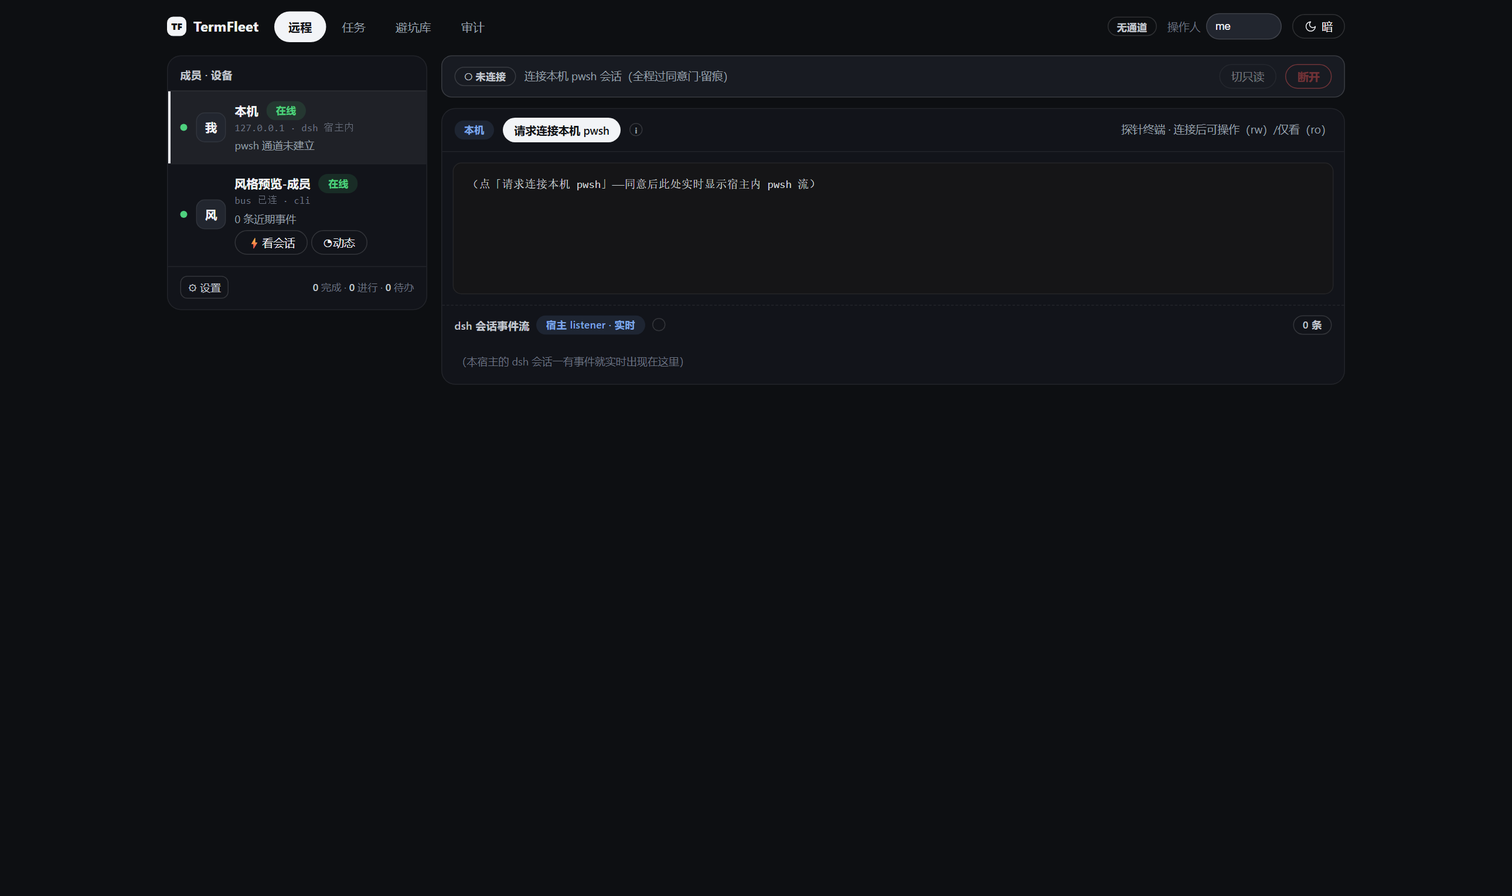
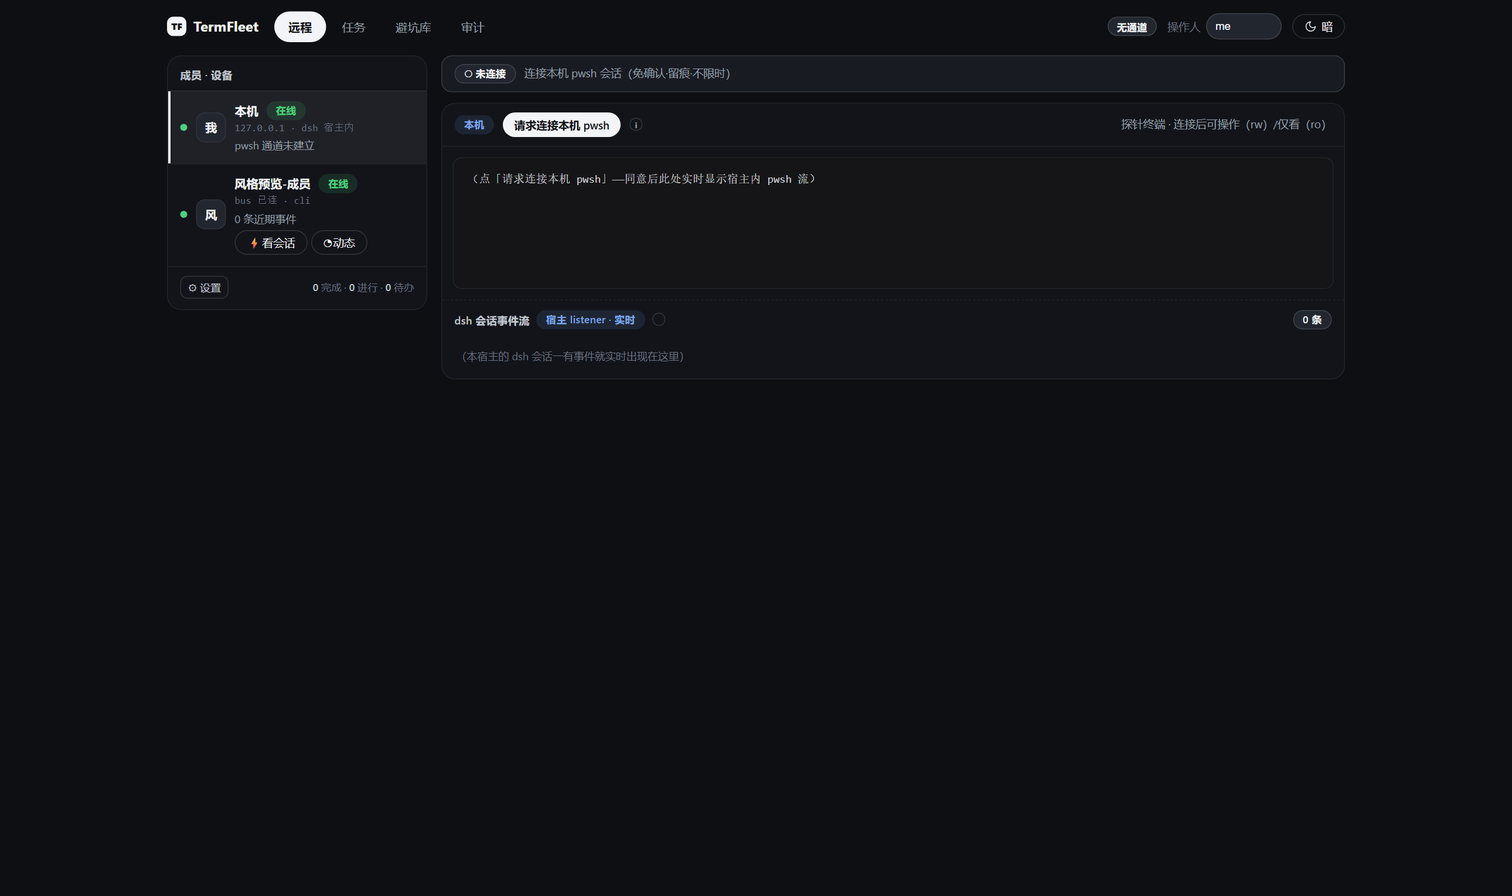
0.1.0 发版准备+全量验收轮(六套件 38 项全绿):界面线全拍逐张挑毛病修 9 处(none 态 CTA 卡 dashed→实线+高度收紧内容居中/chanStrip 无通道时隐藏切只读·断开死按钮/member 态请求会话镜像 CTA 去重(保留顶部单入口,403 文案指上方按钮)/看板卡认领图标 ◻ tofu→ic(User)/toast 白底→暗色壳一体/.btn:disabled 灰化(插话钮禁用态可读)/待分诊等灰 chip 提亮(label1+card2)/IM 按钮组语义(已停用·启用→停用|启用+title)/呼叫 lead 协助按角色显隐(lead 机隐藏);服务端=避

diff --git a/lib/app.html b/lib/app.html
@@ -304,7 +304,7 @@ body{font-family:-apple-system,BlinkMacSystemFont,'Segoe UI','PingFang SC','Hira
 .nav{display:flex;gap:2px;margin-left:6px}
 .nav span{padding:7px 16px;border-radius:999px;font-size:13.5px;color:var(--label3);cursor:pointer;font-weight:500;transition:background var(--dur-fast) var(--ease),color var(--dur-fast) var(--ease)}
 .nav span.on{background:var(--brand);color:var(--brand-fg);font-weight:600}
-.pill{transition:all var(--dur-fast) var(--ease);display:inline-flex;align-items:center;justify-content:center;gap:5px;border-radius:999px;height:22px;padding:0 10px;box-sizing:border-box;font-size:11.5px;font-weight:600;color:var(--label2);border:1px solid var(--border2);white-space:nowrap}
+.pill{transition:all var(--dur-fast) var(--ease);display:inline-flex;align-items:center;justify-content:center;gap:5px;border-radius:999px;height:22px;padding:0 10px;box-sizing:border-box;font-size:11.5px;font-weight:600;color:var(--label1);background:var(--card2);border:1px solid var(--border2);white-space:nowrap}
 .pill.g{color:var(--green);background:var(--green-t);border-color:transparent}
 .pill.a{color:var(--amber);background:var(--amber-t);border-color:transparent}
 .pill.r{color:var(--red);background:var(--red-t);border-color:transparent}
@@ -331,7 +331,8 @@ button:active{opacity:.75}button:disabled{opacity:.4;cursor:not-allowed}
 .note{font-size:12px;color:var(--caption);margin-top:10px}
 .mono{font-family:'SF Mono',Consolas,monospace}
 svg.ic{display:inline-block;vertical-align:-3px}
-.toast{position:fixed;bottom:26px;left:50%;transform:translateX(-50%) translateY(12px);background:var(--brand);color:var(--brand-fg);padding:9px 18px;border-radius:12px;font-size:13px;font-weight:500;z-index:300;opacity:0;transition:all .22s;pointer-events:none;max-width:80vw}
+.toast{position:fixed;bottom:26px;left:50%;transform:translateX(-50%) translateY(12px);background:var(--elev);color:var(--label1);border:1px solid var(--border2);box-shadow:0 8px 30px rgba(0,0,0,.4);padding:9px 18px;border-radius:12px;font-size:13px;font-weight:500;z-index:300;opacity:0;transition:all .22s;pointer-events:none;max-width:80vw}
+.btn:disabled{opacity:.45;cursor:not-allowed}
 .toast.on{opacity:1;transform:translateX(-50%) translateY(0)}
 .mask{position:fixed;inset:0;background:rgba(0,0,0,.5);z-index:200;display:none;transition:opacity var(--dur) var(--ease);opacity:0}
 .mask.on{display:flex;opacity:1}
@@ -385,8 +386,8 @@ body[data-light] .term{background:var(--n1000)}
 .devfoot{display:flex;align-items:center;gap:8px;padding:10px 14px 12px;border-top:1px solid var(--border);margin-top:2px}
 .costline{font-size:11.5px;color:var(--caption);min-width:0;overflow:hidden;text-overflow:ellipsis;white-space:nowrap;flex:1;text-align:right}
 .costline b{color:var(--label2);font-weight:600}
-.ctxnone{display:flex;gap:14px;align-items:stretch;min-height:420px}
-.cta{flex:1;display:flex;flex-direction:column;align-items:center;justify-content:center;gap:10px;padding:34px 22px;border:1.5px dashed var(--border2);border-radius:16px;background:var(--card);cursor:pointer;text-align:center;transition:border-color var(--dur) var(--ease),background var(--dur-fast) var(--ease),transform var(--dur-fast) var(--ease)}
+.ctxnone{display:flex;gap:14px;align-items:center;min-height:420px}
+.cta{flex:1;display:flex;flex-direction:column;align-items:center;justify-content:center;gap:10px;padding:30px 22px;border:1px solid var(--border2);border-radius:16px;background:var(--card);cursor:pointer;text-align:center;transition:border-color var(--dur) var(--ease),background var(--dur-fast) var(--ease),transform var(--dur-fast) var(--ease)}
 .cta:hover{border-color:var(--label3);background:var(--elev);transform:translateY(-2px)}
 .cta .big{font-size:15px;font-weight:700;color:var(--label1)}
 .cta .sub{font-size:12.5px;color:var(--caption);max-width:300px;line-height:1.6}
@@ -633,8 +634,8 @@ details.adv .ain{display:grid;gap:7px}
           <span id="rtState" class="pill">○ 未连接</span>
           <span style="font-size:12.5px;color:var(--label3);min-width:0" id="rtMeta"></span>
           <span class="spacer"></span>
-          <button class="btn ghost sm" id="rtModeBtn" disabled>切只读</button>
-          <button class="btn danger sm" id="rtEndBtn" disabled>断开</button>
+          <button class="btn ghost sm" id="rtModeBtn" style="display:none" disabled>切只读</button>
+          <button class="btn danger sm" id="rtEndBtn" style="display:none" disabled>断开</button>
         </div>
 
         <div class="ctxnone" id="ctxNone">
@@ -1042,6 +1043,9 @@ function renderChannel(){
   var strip=document.getElementById('chanStrip');
   var sub=document.getElementById('devLocalSub');
   clearInterval(tick); tick=null;
+  // 无 active/pending 通道时状态条只留状态行——「切只读/断开」死按钮不再显示（2026-11-08 界面验收）
+  var stripOn=!!(CH&&(CH.status==='active'||CH.status==='pending'));
+  mb.style.display=stripOn?'':'none'; eb.style.display=stripOn?'':'none';
   var showStrip=false;
   if(CH && CH.status==='pending'){
     showStrip=true;
@@ -1157,6 +1161,8 @@ function pollFleet(){
   }).catch(function(){});
   api('/dsh-termfleet/pairing').then(function(d){ FLEET.role=d.pairing&&d.pairing.role||'?'; FLEET.name=d.pairing&&d.pairing.name||'';
     document.getElementById('pairRole').textContent=FLEET.role; document.getElementById('pairName').textContent=FLEET.name?('· '+FLEET.name):'';
+    // 「呼叫 lead 协助」是成员机的 SOS 入口——lead 自己的面板没有语义，隐藏（2026-11-08 界面验收）
+    var sb=document.getElementById('sosBtn'); if(sb) sb.style.display=(FLEET.role==='lead')?'none':'';
     var tt=document.getElementById('trustTgl'); if(tt) tt.checked=!!(d.pairing&&d.pairing.trust); }).catch(function(){});
   // pending 轮询：远端成员答复 / 成员页收到 lead 请求 → 采纳
   if(CH && CH.status==='pending'){
@@ -1354,10 +1360,7 @@ function sfOpen(name){
     try{ es.close() }catch(e){} if(SF.es===es)SF.es=null; });
   es.onerror=function(){ if(SF.es!==es)return;
     if(es.readyState===2){ sfSetState('无法订阅','r');
-      if(!SF.n){ sfListEl().innerHTML='<div class="ph">订阅被拒（403）——TA 尚无激活的会话同意，或服务端通道未部署；同意开放后重新点选成员即可。</div>';
-        var b=document.createElement('button'); b.className='btn sm'; b.style.marginTop='10px'; b.textContent='请求会话镜像';
-        b.onclick=function(){ document.getElementById('sfReqSess').click(); };
-        var ph=sfListEl().querySelector('.ph'); ph.appendChild(document.createElement('br')); ph.appendChild(b); }
+      if(!SF.n){ sfListEl().innerHTML='<div class="ph">订阅被拒（403）——TA 尚无激活的会话同意，或服务端通道未部署。点上方「请求会话镜像」，同意开放后重新订阅即可。</div>'; }
       sfGate(true); }
     else sfSetState('重连中…','a'); };
   sfGate(true);
@@ -1468,7 +1471,7 @@ function renderProjSeg(){
   Object.keys(projects).sort().forEach(function(n){ mk(n, n+' '+ST.tasks.filter(function(t){return (t.project||'默认')===n}).length); });
 }
 function cardMeta(t){
-  var own = t.owner ? '<span>'+esc(t.owner)+'</span>' : '<span class="claim" data-claim="'+t.id+'">◻ 认领</span>';
+  var own = t.owner ? '<span>'+esc(t.owner)+'</span>' : '<span class="claim" data-claim="'+t.id+'">'+ic('User',11)+' 认领</span>';
   var cli = t.cli ? '<span class="pill" style="border-style:dashed;padding:0 7px;height:18px">'+esc(t.cli)+'</span>' : '';
   var sl = t._linkedSessions ? '<span class="pill b" style="padding:0 7px;height:18px">↔'+t._linkedSessions+'</span>' : '';
   var sb = t.session ? '<span class="pill g" style="padding:0 7px;height:18px" title="绑定会话 '+esc(t.session.sessionId)+'">⚡会话</span>' : '';
@@ -1956,7 +1959,7 @@ document.getElementById('joinBtn').onclick=function(){
   }).catch(function(e){ st.textContent='入队失败：'+e; });
 };
 var imWeb=document.getElementById('imWebhook'), imTg=document.getElementById('imToggle');
-function loadIm(){ api('/dsh-termfleet/im').then(function(d){ imWeb.value=(d.im&&d.im.webhook)||''; imTg.textContent=(d.im&&d.im.enabled)?'已启用 · 关闭':'已停用 · 启用'; }); }
+function loadIm(){ api('/dsh-termfleet/im').then(function(d){ imWeb.value=(d.im&&d.im.webhook)||''; imTg.textContent=(d.im&&d.im.enabled)?'停用':'启用'; imTg.title=(d.im&&d.im.enabled)?'当前已启用——点击停用 webhook 推送':'当前已停用——点击启用 webhook 推送'; }); }
 loadIm();
 /* R1 设置弹层 + 右栏 context 入口 */
 function openSettings(){ document.getElementById('settingsMask').classList.add('on'); loadIm(); loadCost(); }

diff --git a/lib/index.js b/lib/index.js
@@ -332,6 +332,7 @@ export function apply(ctx, _config) {
             if (t.state.returns >= 5) { t.status = 'blocked'; H('打回达上限 5 次 → blocked，交人裁决') }
           }
           H(`状态 ${from} → ${to}`)
+          t._flowNote = from + ' → ' + to
         } else if (op === 'delete') {
           auditStore.add(by, '删除任务', id + ' ' + (t.title || ''))
           d.tasks = d.tasks.filter((x) => x.id !== id)
@@ -342,7 +343,8 @@ export function apply(ctx, _config) {
           save(); return t
         }
         else return t
-        auditStore.add(by, '任务操作 ' + op, id + ' ' + (t.title || ''))
+        const fnote = t._flowNote; delete t._flowNote // status 转移时带上前后态（审计行可读性 2026-11-08）
+        auditStore.add(by, '任务操作 ' + op, id + ' ' + (t.title || '') + (fnote ? '（' + fnote + '）' : ''))
         save(); return t
       },
     }
@@ -1473,7 +1475,7 @@ ctx.inject(['webServer'], (host) => {
             try {
               const body = JSON.parse((await readBody(req)) || '{}')
               const r = await memoryStore.create(body, who(req))
-              auditStore.add(who(req), '新增避坑[' + r.state + '/' + r.category + ']', String(body.title || ''))
+              auditStore.add(who(req), '新增避坑 · ' + ({ proposed: '待定', implemented: '已生效', rejected: '已否决', archived: '已归档' }[r.state] || r.state) + ' · ' + r.category, String(body.title || ''))
               json(res, 200, r)
             } catch (e) { json(res, 400, { ok: false, error: String(e).slice(0, 300) }) }
           },

diff --git a/src/index.ts b/src/index.ts
@@ -343,6 +343,7 @@ export function apply(ctx, _config) {
             if (t.state.returns >= 5) { t.status = 'blocked'; H('打回达上限 5 次 → blocked，交人裁决') }
           }
           H(`状态 ${from} → ${to}`)
+          t._flowNote = from + ' → ' + to
         } else if (op === 'delete') {
           auditStore.add(by, '删除任务', id + ' ' + (t.title || ''))
           d.tasks = d.tasks.filter((x) => x.id !== id)
@@ -353,7 +354,8 @@ export function apply(ctx, _config) {
           save(); return t
         }
         else return t
-        auditStore.add(by, '任务操作 ' + op, id + ' ' + (t.title || ''))
+        const fnote = t._flowNote; delete t._flowNote // status 转移时带上前后态（审计行可读性 2026-11-08）
+        auditStore.add(by, '任务操作 ' + op, id + ' ' + (t.title || '') + (fnote ? '（' + fnote + '）' : ''))
         save(); return t
       },
     }
@@ -1484,7 +1486,7 @@ ctx.inject(['webServer'], (host) => {
             try {
               const body = JSON.parse((await readBody(req)) || '{}')
               const r = await memoryStore.create(body, who(req))
-              auditStore.add(who(req), '新增避坑[' + r.state + '/' + r.category + ']', String(body.title || ''))
+              auditStore.add(who(req), '新增避坑 · ' + ({ proposed: '待定', implemented: '已生效', rejected: '已否决', archived: '已归档' }[r.state] || r.state) + ' · ' + r.category, String(body.title || ''))
               json(res, 200, r)
             } catch (e) { json(res, 400, { ok: false, error: String(e).slice(0, 300) }) }
           },

diff --git a/README.md b/README.md
@@ -1,10 +1,61 @@
-# dsh-termfleet
+# dsh-termfleet · TermFleet
 
-TermFleet —— dsh 团队驾驶舱插件：lead 与成员同装一个插件，跨成员**会话级**远程操控——成员 dsh 会话对话流实时镜像到 lead 面板、lead 插话直达成员会话（同意握手卡 ro/rw 服务端门控/限时 30min/全程留痕）、TF-JOIN 邀请码粘贴即入队、连接/请求面板弹条通知、项目共享任务板、决策笔记库（write-notes-like-deepseek 治理）、IM 审批双向、审计。
+**dsh 团队驾驶舱插件** —— lead 与成员同装一个插件，获得跨成员的**会话级**远程协作。
+**连会话，不连桌面**：成员的 dsh 会话对话流实时镜像到 lead 面板，lead 可插话直达会话；一切连接过同意握手、限时授权、全程审计。桌面永远不被看到。
 
-- 成员机部署：[MEMBER-SETUP.md](MEMBER-SETUP.md)（三步；或 lead 面板「取码」→ 成员面板粘贴即入队）
-- 实机验收：[docs/ACCEPTANCE-M1.md](docs/ACCEPTANCE-M1.md) / P0 E2E：[docs/audit/P0-ACCEPTANCE.md](docs/audit/P0-ACCEPTANCE.md)（`node scripts/verify-p0.mjs` 六场景全绿）
-- 主计划与文档库：[PLAN.md](PLAN.md) / [docs/lib/specs/_modules.md](docs/lib/specs/_modules.md)
-- 开发：lib/index.js 为宿主装载物（src/index.ts=镜像，`node scripts/rebuild-src.cjs` 再生）；`node scripts/gen-app-html.mjs` 再生面板页
+## 核心能力
 
-> 从 dsh-plugin 管理文件夹迁出为独立仓（保留全部历史）。
+| 能力 | 说明 |
+|---|---|
+| 🪞 会话流镜像 | 成员 dsh 会话对话流（user/assistant/tool）实时镜像到 lead 面板；服务端 ro/rw 双端强制门控 |
+| ⌨ 插话 | lead 经 rw 通道向成员活动会话插话，回执（followup-ack）闭环；ro 通道服务端 403 |
+| 🤝 同意总线 | 握手卡（允许/只读/拒绝）· 跨机 30 分钟限时 · 全程审计 · 成员侧断开即时传播；**本机直连免确认不限时** |
+| ⚡ 信任通道 | 成员开信任 → lead 一键请求自动允许只读；rw 接管永远手动点头 |
+| 🎟 TF-JOIN | lead 取码 → 成员粘贴即入队（码含总线地址+团队令牌，支持局域网显式地址） |
+| 🔔 通知闭环 | 连接/请求/进度 面板弹条 + IM webhook 审批卡（IM 回复 allow/ro/deny）+ 分级频控摘要推送 |
+| 📋 共享任务板 | 全员可建/认领；任务↔会话强绑定；跨机同步（op 上行/广播/墓碑）；unified-board 10 态门禁 |
+| 🧠 避坑库 | 决策笔记治理（wnlds 规范：备选/收益/代价），任务关联 |
+| 🖥 探针终端 | xterm.js 原生 PTY 终端（vendored 零 CDN），逐键转发 |
+| 🧾 审计 | 全操作分色审计流（任务/避坑/连接通道），连接·通道筛选 |
+
+## 30 秒上手
+
+```bash
+# 两台机都装（或 GitHub 直装）
+dsh plugin --profile web add github:IKEASven69/dsh-termfleet
+
+# lead 机：起 dsh 后打开 TermFleet 面板 → ⚙设置 → 「取码」
+# member 机：TermFleet 面板 → ⚙设置 → 粘贴邀请码 → 「入队」→ 5 秒内上线
+# lead 面板点成员卡「⚡看会话」→ TA 同意（或信任自动允许）→ 实时对话流
+```
+
+成员机详细部署：[MEMBER-SETUP.md](MEMBER-SETUP.md)。局域网为默认边界（无公网依赖）；跨网自用推荐 Tailscale（两台机同账号，lead 地址填 100.x IP 零改动）。
+
+## 安全模型
+
+- 一切数据路由过 Bearer 令牌门（`~/.dsh/termfleet/token.json`，timingSafeEqual/fail-closed）
+- 会话镜像与插话必须成员显式同意（ro 只读 / rw 可操作），跨机 30 分钟限时，随时可断
+- 全操作（任务/避坑/连接·通道）入审计流；信任自动允许也留痕
+- 不碰桌面：屏幕流已被产品决策移除（`screen` 模块 unplugged），远程对象=会话本身
+
+## 验收状态
+
+38 项 E2E 全绿（dsh 0.2.0-rc.2 / 0.2.1-alpha.2 / 0.2.1-rc.5 实测）：`verify-p0` 15 场景（入队/镜像/插话/同意门/通知/断开传播/跨机地址/任务同步/绑定/墓碑/推送频控/信任/动态/查重）+ `verify-lan` 3（LAN 取码地址/跨转发器/双向数据）+ 原生板 6 + 原生远程 4 + better-sidebar 共存 4 + xterm 真实键击 6。验收记录见 [docs/audit/](docs/audit/)。
+
+## 文档
+
+- 主计划：[PLAN.md](PLAN.md) · 规格库：[docs/lib/specs/](docs/lib/specs/_modules.md) · 决策：[docs/lib/decisions.md](docs/lib/decisions.md)
+- 验收：[docs/ACCEPTANCE-M1.md](docs/ACCEPTANCE-M1.md) · 竞品扫描：[docs/COMPETITOR-SCAN-1105.md](docs/COMPETITOR-SCAN-1105.md)
+- 开发：lib/index.js 为宿主装载物（src/index.ts 为镜像，`node scripts/rebuild-src.cjs` 再生）；面板页由 `node scripts/gen-app-html.mjs` 生成（勿手改 lib/app.html）
+
+## English
+
+**TermFleet** is a team cockpit plugin for [dsh](https://github.com/deepseek-ai/dsh): session-level remote collaboration across machines. Lead sees members' live dsh conversation streams (with consent handshake, time-limited grants and full audit) and can inject messages into their sessions; includes TF-JOIN one-line pairing, a shared task board with cross-machine sync, IM approval cards, and a native xterm terminal. LAN-first by design — no public relay; use Tailscale for cross-network.
+
+```bash
+dsh plugin --profile web add github:IKEASven69/dsh-termfleet
+```
+
+## License
+
+MIT

diff --git a/CHANGELOG.md b/CHANGELOG.md
@@ -1,0 +1,39 @@
+# Changelog
+
+## 0.1.0 — 2026-11-08（首发）
+
+dsh 团队驾驶舱插件首个公开发布。lead 与成员同装一个插件，获得**会话级**远程协作：连会话不连桌面，全部动作过统一同意/审计总线。
+
+### 核心能力
+
+- **会话流镜像 + 插话**（契约 A/B/C）：成员 dsh 会话对话流实时镜像到 lead 面板（user/assistant/tool 分气泡）；lead 插话经 rw 通道写入成员活动会话，回执（followup-ack）闭环；ro/rw 服务端双端强制门控。
+- **同意总线**：连接握手卡（允许/仅只读/拒绝）、30 分钟限时（跨机）、全程审计留痕、成员侧断开跨总线即时传播；**本机直连免确认且不限时**（同源会话连自己的 shell）。
+- **信任快捷通道**（契约 I）：成员开信任后 lead 一键请求自动允许只读（auto=ro 落库透传、审计留痕），关信任即门闸；rw 接管永远手动点头。
+- **TF-JOIN 一句话入队**（契约 D）：lead 面板取码 → 成员粘贴即配对上线（码内含 lead 总线地址+团队令牌；支持 ?u= 显式局域网地址）。
+- **通知闭环**（契约 E）：member-join / consent-request / progress 面板弹条 + IM webhook 双向（审批卡经 IM 回复 allow/ro/deny）。
+- **任务↔会话强关联 + 任务板跨机同步**（契约 F/G）：任务绑定 sessionId（不存名字）、弱匹配一键转正、op 上行/全量广播/删除墓碑/上线对账、id 舰队名标签防撞；10 态 unified-board 转移表+验收条目+待确认门禁+两盏灯+打回计数。
+- **摘要推送**（契约 H）：成员侧五态状态机（迁移才推）+ 分级频控（waiting-input 零误报零冷却 / 启发式 30min 冷却）+ lead 忙碌抑制 + 阈值 env。
+- **查重 v1.1**：标题 bigram Jaccard（阈值 env，默认 0.55），创建时提示非拦截；v1 的 desc 稀释缺陷已修。
+- **xterm.js 原生终端**：PTY 流原生渲染（vendored UMD，零 CDN），逐键裸流转发；真实键事件 E2E 全链验证。
+- **四页 IA**：远程（context 状态机 none/local/member）/ 任务（行列表+★置顶+看板切换）/ 避坑库 / 审计（分色+筛选）；右栏原生任务板与远程视图（better-sidebar 0.28 双路径兼容）。
+- **doclib**：seal（SHA-256 账本）+ linkcheck。
+
+### 兼容性
+
+- dsh 0.2.0-rc.2 / 0.2.1-alpha.2 / **0.2.1-rc.5 实测全绿**（38 项 E2E：p0 15 + lan 3 + 原生板 6 + 原生远程 4 + 共存 4 + 键击 6）。
+- better-sidebar 0.28 共存（dock 接管下经 `betterSidebar.registerTab` 注册）；0.19.1 会被 dsh 兼容守卫禁用（上游行为）。
+
+### 已知边界（如实）
+
+- 真双机录屏验收（ACCEPTANCE-M1 #0-#10）待第二台机器；单机双实例+LAN 转发路径已全覆盖。
+- IM 实发需真实 webhook 环境（E2E 验证到转发路径）。
+- 成本聚合暂缓（dsh-cost-meter 无文档化数据接口）；回放切片排 P2 末位。
+- dsh launch token 与插件令牌不联动：首次经按钮打开面板需按授权卡粘贴一次 token（之后永久生效）。
+- better-sidebar 0.28 首挂竞态（上游）：刚启动就点 TermFleet 标签偶发「空面板」，切走再切回即愈；原生面注册后右下角不再出现兜底按钮。
+
+### 安装
+
+```
+dsh plugin --profile web add github:IKEASven69/dsh-termfleet
+# npm 发布后可用：dsh plugin --profile web add dsh-termfleet
+```

diff --git a/docs/release/npm-and-market.md b/docs/release/npm-and-market.md
@@ -1,0 +1,43 @@
+# dsh-termfleet npm 首发 + 市场收录检查单（2026-11-08 备妥，等用户执行）
+
+> 参照 takeover 线踩平的流程（docs 里同款文件）。本文件只备料；publish 需要用户 npm 账号（cold777）EOTP，由用户终端执行。
+
+## 0. 现状核对（2026-11-08 实查）
+
+- npm 名 `dsh-termfleet` 无人占用（registry 404）——**占名是本次发版第一动机**（takeover 的 `dsh-takeover` 被同日抢注的教训：README 公开公示名字一个月后被 squatted）。
+- 分发三渠道已就绪：①awesome-dsh-plugin 目录（收录=一个 yml 的 PR，bot 按 repository.url 自动认领 npm 包补 npm 名/安装命令/下载量）②dsh-plugin-shop-catalog（2026.1105 新目录包）③官方「插件→发现」页读目录 index.json。
+- 0.1.0 材料已备：package.json（private 已摘/version/repository/keywords/engines）+ LICENSE（MIT）+ CHANGELOG.md + README（双语）。
+
+## 1. 发布前检查（我来做 / 已做打勾）
+
+- [x] `private` 已从 package.json 移除（否则 publish 直接拒绝）
+- [x] `files` = lib/ + cordis.patch.yml（npm 自动附 README/CHANGELOG/LICENSE/package.json）
+- [x] `repository.url` 指回本仓（awesome bot 认领凭据，必须有）
+- [x] peerDependencies 保持 `*`（takeover 的预发布范围坑与我们无关——`*` 匹配一切含 prerelease；收紧等上游 0.2 stable）
+- [x] LICENSE 文件落盘（此前只有字段没有文件）
+- [x] CHANGELOG.md 0.1.0 全量条目（含已知边界如实段）
+- [x] README 双语重写（安装行 npm 版本等发布后启用）
+- [ ] 发布前最后一跑：六套件全绿（本轮验收，结果回填 P1-ACCEPTANCE）
+- [ ] `npm pack --dry-run` 过目 tarball 清单（确认无 scripts/、docs/、screens 混入）
+- [ ] 隐私审计：git log 无密钥/策略词（termfleet 历史无竞品叙事，grep AKIA/ghp_/token 实值复核）
+
+## 2. 发布步骤（用户执行）
+
+1. `cd D:/coding/dsh-termfleet && npm login`（cold777 账号，EOTP 流）
+2. `npm publish --access public`
+3. PUT 202「package is being processed」≈2 分钟异步上线，期间 view 404 别慌
+4. 验证三连：`npm view dsh-termfleet dist-tags`；`repository.url` 指回 GitHub；干净 profile `dsh plugin --profile web add dsh-termfleet` 真装一轮
+5. README「安装」节启用 npm 命令行（发布后我来改）
+
+## 3. 市场收录（首发 PR）
+
+- 文件：awesome-dsh-plugin 仓 `data/plugins/IKEASven69__dsh-termfleet.yml`（新建条目，勿手编 README）
+- 字段：name/description（中文一句）/category=team/tags=[team,session,cockpit]/repo 指本仓
+- **不手写 `npm:` 字段**（bot 自动认领）；不发版本化 tarball（npm 是主路径；如发 Release 资产，文件名不带版本号 → `releases/latest/download/dsh-termfleet.tgz`）
+- dsh-plugin-shop-catalog 渠道：观察其收录机制后补（2026.1105 刚发，机制未查）
+
+## 4. 发布后
+
+- GitHub Release v0.1.0 + tag（CHANGELOG 摘要）
+- P1-ACCEPTANCE 回填「0.1.0 发布」节
+- 记忆更新：发布状态 + npm 名占用情况
